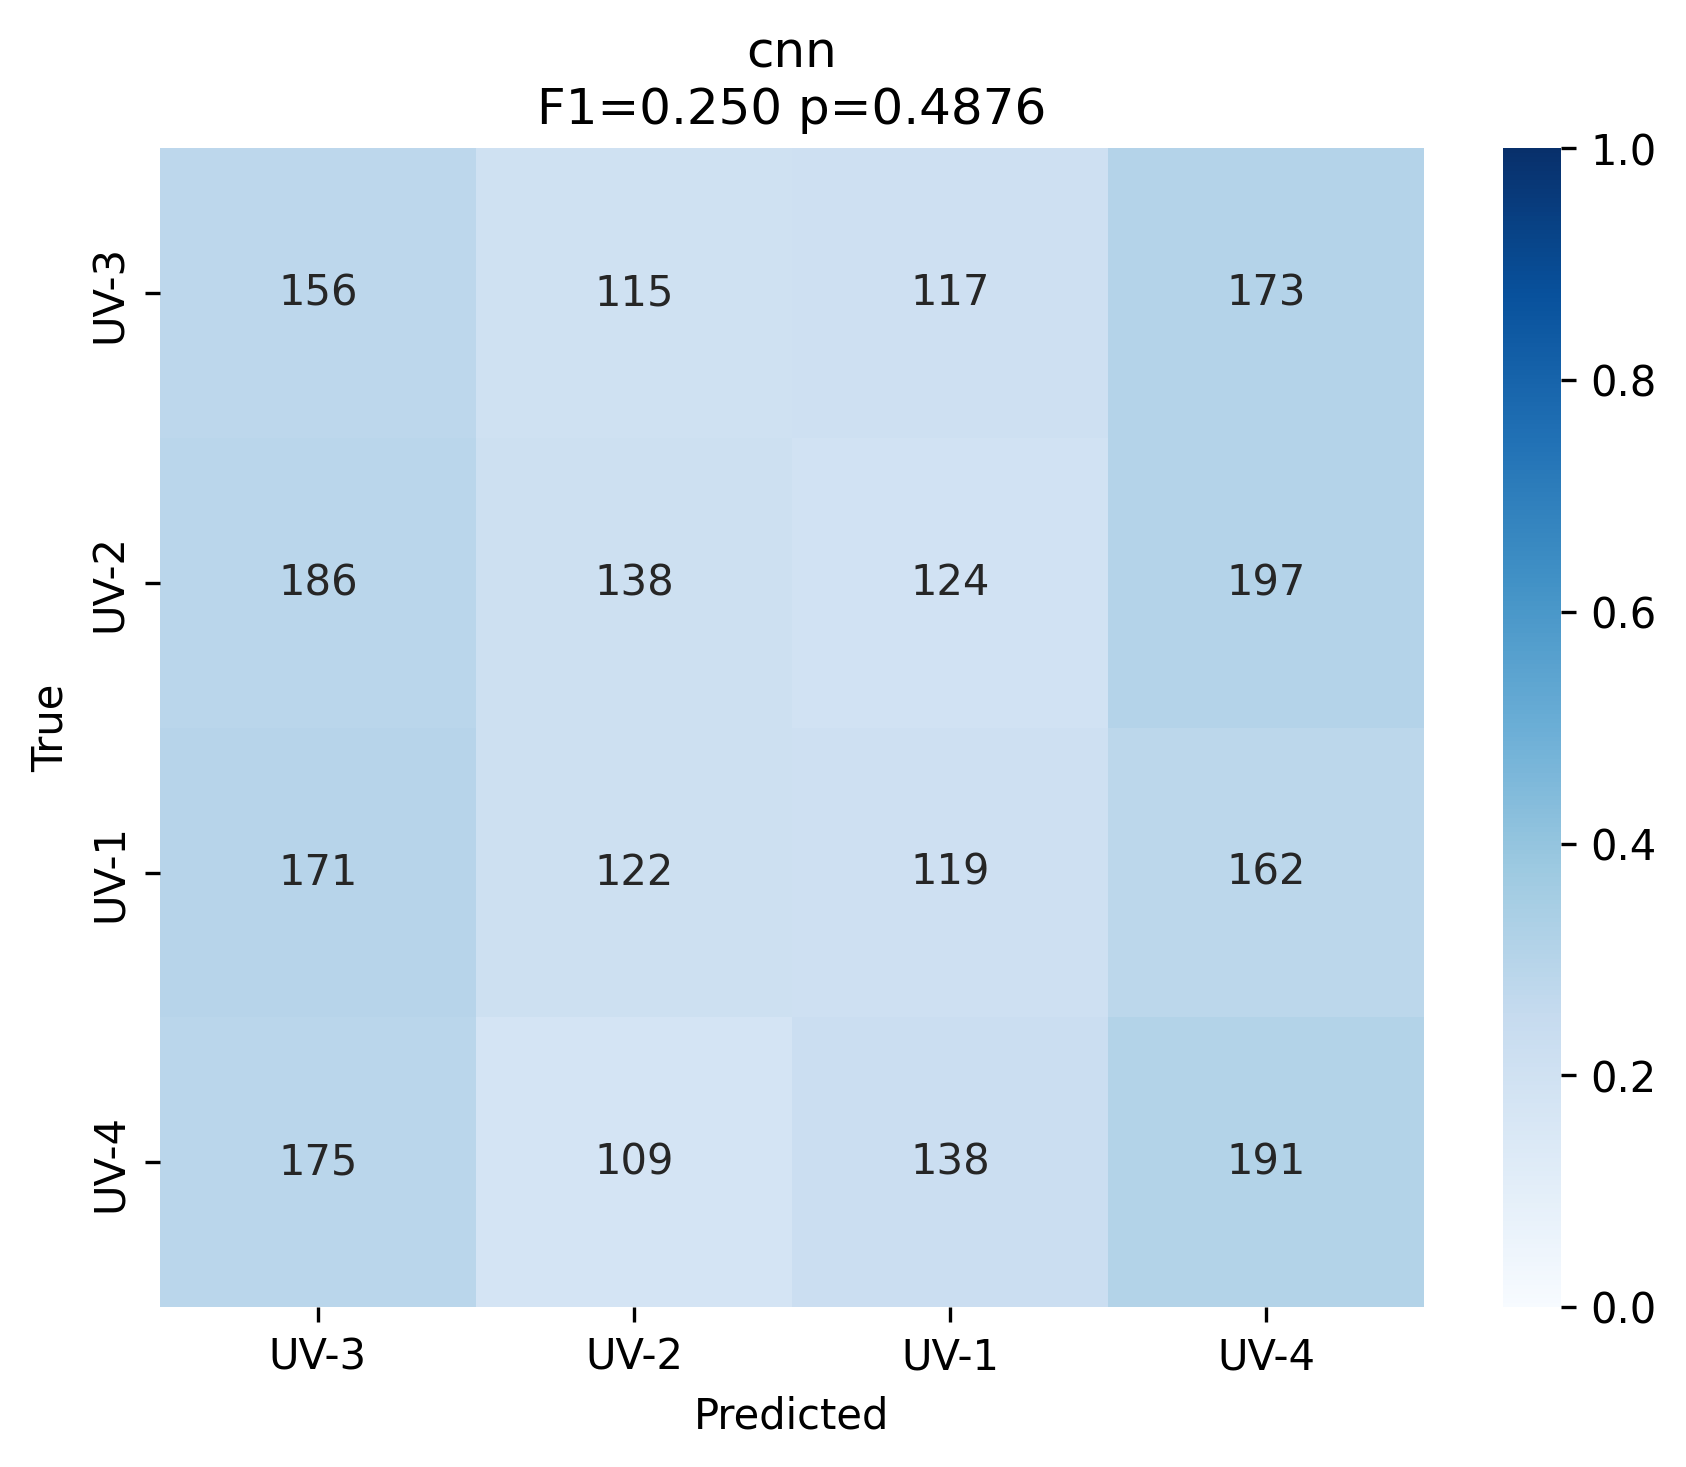
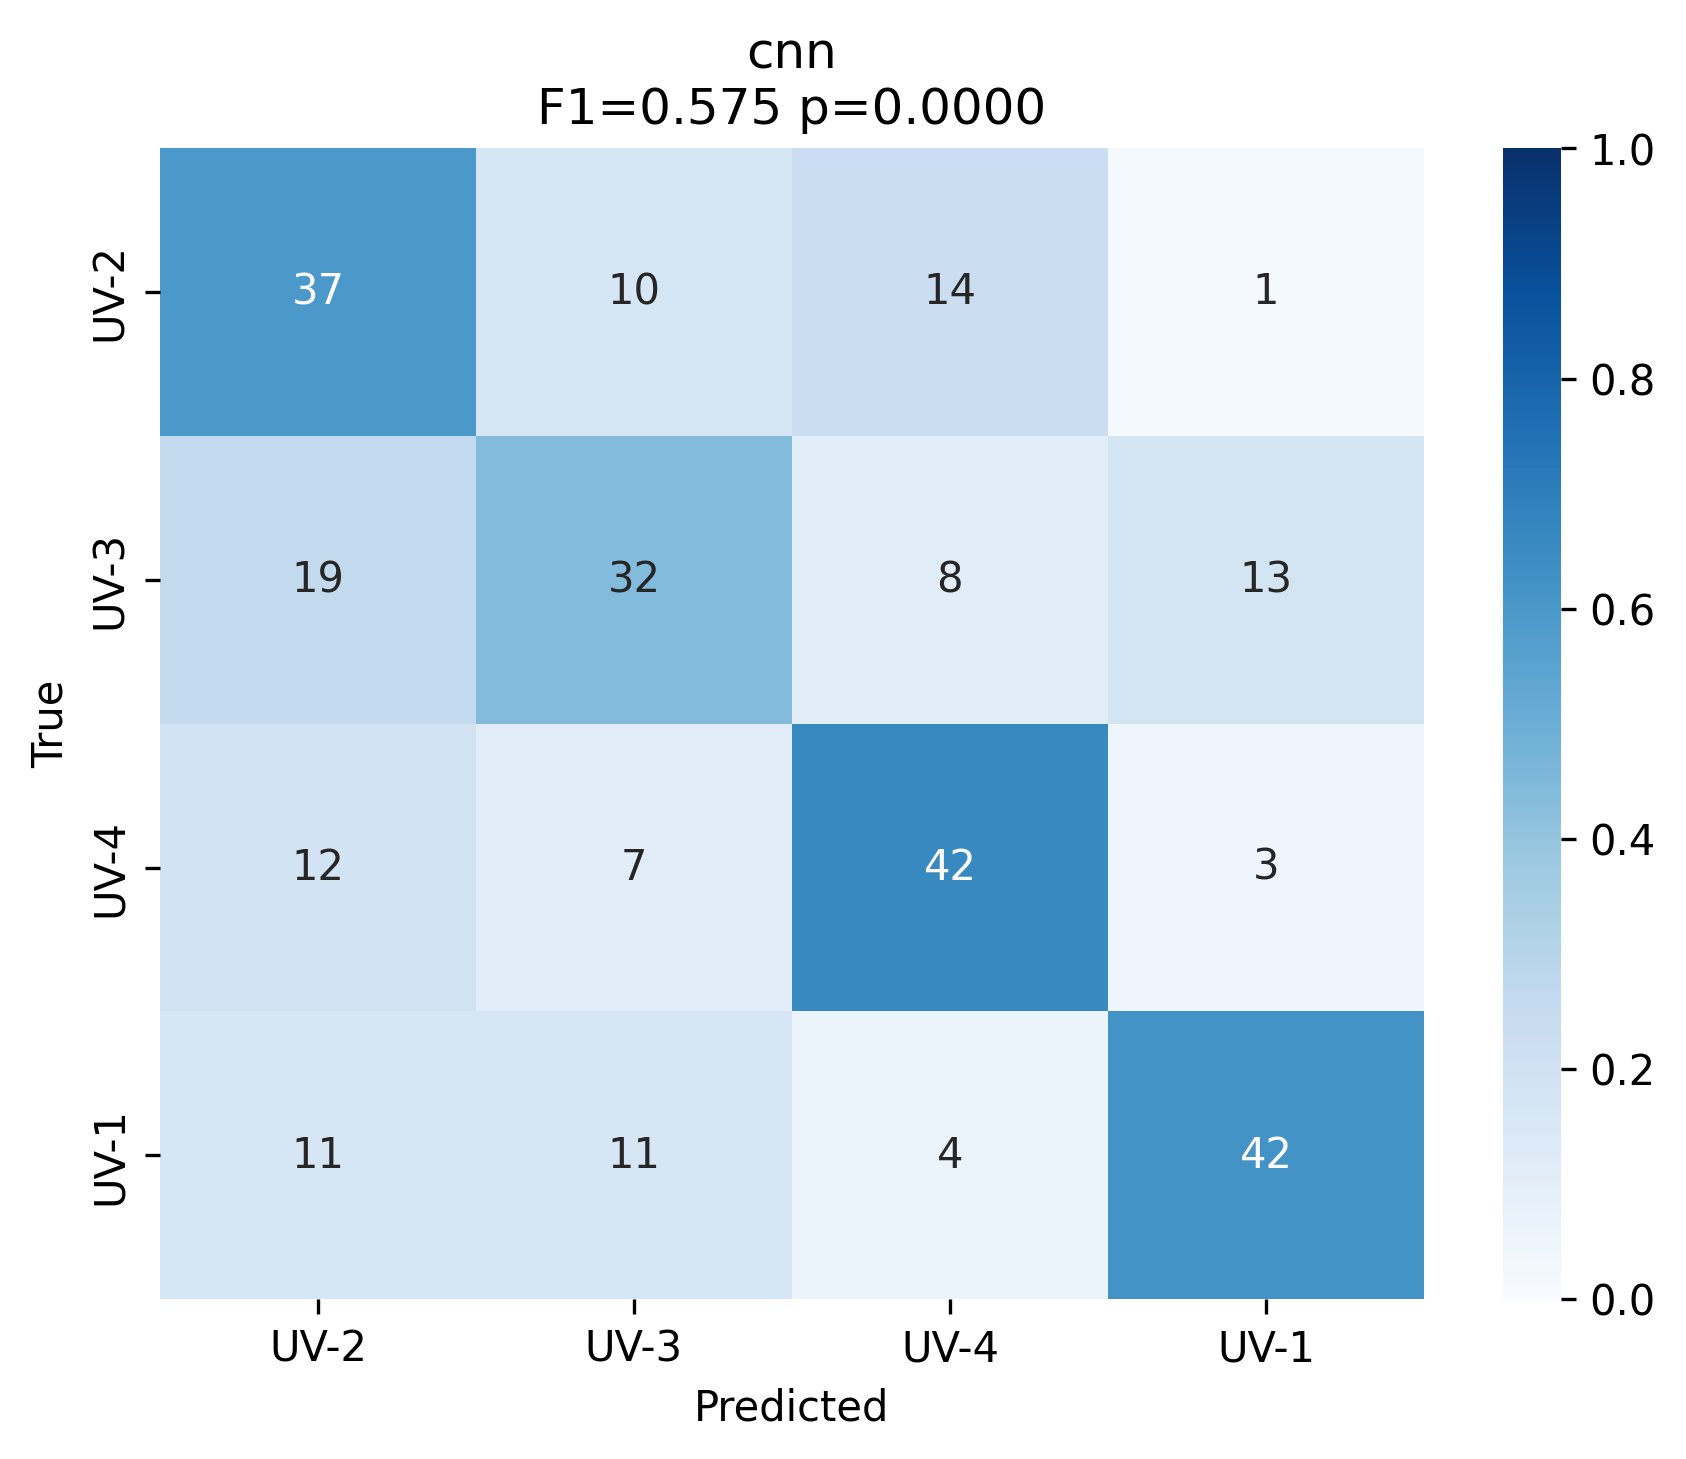
fixed the visualisation

diff --git a/experiment_handler.py b/experiment_handler.py
@@ -40,9 +40,7 @@ class ExperimentOrganiser:
         self.organiser()
    
     def organiser(self):
-        print(self.emissions)
         if self.emissions:
-            print(self.emissions)
             from codecarbon import EmissionsTracker
             emission_tracker = EmissionsTracker(log_level='critical')
             emission_tracker.start()
@@ -86,15 +84,15 @@ class ExperimentOrganiser:
             #load the model from directory
 
             acc, prec, rec, f1 = self.evaluate(
-                self.df,
-                self.bg, 
-                self.columns, 
-                self.label, 
-                self.lr, 
-                self.dropout, 
-                self.epochs, 
-                self.batch_size,
-                model
+                val_data=self.df,
+                bg=self.bg, 
+                columns=self.columns, 
+                label=self.label, 
+                lr=self.lr, 
+                dropout=self.dropout, 
+                epochs=self.epochs, 
+                batch_size=self.batch_size,
+                model=self.model_name
             )
 
         if self.boot:
@@ -223,9 +221,8 @@ class ExperimentOrganiser:
         if not ph:
             if self.emissions:
                 emissions = emissions.stop()
-                print(emissions)
             with open(f"results/{self.model_name}/text/Results_{self.model_name}_{bg}.txt", 'a') as r_file:
-                r_file.write(f"Model, Dropout: {dropout}, LR: {lr}, Epochs: {epoch}, F1-Score: {mean_f1}, Accuracy: {mean_acc}, Precision: {mean_prec}, Recall: {mean_rec}, Emissions: {emissions if emissions is not None else ''} kg CO2eq")
+                r_file.write(f"Model, Dropout: {dropout}, LR: {lr}, Epochs: {epoch}, F1-Score: {mean_f1}, Accuracy: {mean_acc}, Precision: {mean_prec}, Recall: {mean_rec}, Emissions: {emissions if emissions is not None else ''} kg CO2eq \n")
 
             
         return model, f1, acc, prec, rec, epoch
@@ -355,7 +352,7 @@ class ExperimentOrganiser:
         study = optuna.create_study(direction="maximize")
         study.optimize(objective, n_trials = 25, callbacks=[save_trial]) #25 combinations
         if self.emissions:
-            emissions.stop()
+            emission.stop()
 
         #Here just write the best param
         with open(f"results/{self.model_name}/text/Results_param_hunt_{self.model_name}_{bg}.txt", 'a') as r_file:
@@ -363,7 +360,7 @@ class ExperimentOrganiser:
                 f"\n Best LR: {study.best_params['lr']:.6f} |"
                 f"Dropout: {study.best_params['dropout']:.4f}| "
                 f"F1: {study.best_value:.4f}\n"
-                f"Total Emissions: {emissions if self.emissions else {}}"
+                f"Total Emissions: {emission if self.emissions else {}} \n"
             )         
 
         

diff --git a/main.py b/main.py
@@ -36,7 +36,7 @@ def main():
     parser.add_argument('-lr', type=float, default=0.00001)
     parser.add_argument('-e', type=int, default=10) #epochs
     parser.add_argument('--batch_size', '-bs', type=int, default=3)
-    parser.add_argument('-k', type=int, default=5)
+    parser.add_argument('-k', type=int, default=10)
     parser.add_argument('-tr', '--train', action='store_true', default=False)
     parser.add_argument('--param_hunt', '-p', action='store_true', default=False)
     parser.add_argument('-test_size', type=float, default=0.1)  
@@ -88,9 +88,7 @@ def main():
         print(f"The label chosen is: {args.label}")
 
     df = pd.read_csv(file)    
-    print(args.emissions)
     config = Config.from_args(args)
-    print(config.emissions)
     exp = ExperimentOrganiser(df=df, config=config)
     
 

diff --git a/train/train_nn.py b/train/train_nn.py
@@ -45,7 +45,6 @@ class NNTrain:
 
 
     def training_loop(self, train_data, val_data):
-        print("This is in training looop", self.columns)
         spt = SPTokenizer(self.columns, self.label, model="tokenizer")
         
         #extract labels
@@ -165,7 +164,6 @@ class NNTrain:
 
     def evaluate(self, val_data, model, boot=False):
         spt = SPTokenizer(self.columns, self.label, model="tokenizer")
-        print("This is model in evaluate", model)
         #if hasattr(self, 'label2id') and hasattr(self, 'id2label'):
         if self.label2id is not None and self.id2label is not None:
             spt.label2id = self.label2id  #reuse it
@@ -202,7 +200,7 @@ class NNTrain:
             batch_size= self.batch_size,
             shuffle=    not boot #not shuffle for boot
         )
-
+        print(not boot)
         model.eval()
 
 

diff --git a/utils/visualisation.py b/utils/visualisation.py
@@ -30,8 +30,8 @@ class Visual:
 
                 print(model_name, save_file)
             
-                if self.save_path and os.path.exists(save_file):
-                    continue
+#                if self.save_path and os.path.exists(save_file):
+#                    continue
 
                 #n = len(self.model_names)
                 fig, ax = plt.subplots(figsize=(6, 5))

diff --git a/preprocessing/pre_nn.py b/preprocessing/pre_nn.py
@@ -50,7 +50,7 @@ class SPTokenizer:
 
     def label_extractor(self, df) -> None:
 
-        for i, label in enumerate(np.unique(df[self.label].values)):
+        for i, label in enumerate(sorted(df[self.label].unique())):
             self.label2id[label] = i
             self.id2label[i] = label
 

diff --git a/train/train.py b/train/train.py
@@ -170,7 +170,7 @@ class ModelTrain:
         total_losses = 0
         all_preds = []
         all_labels = []
-        
+        print(boot)        
         val_fold = DataProcessor(df=val_data, columns=self.columns, label=self.label)
         val_fold.label_extractor()
         